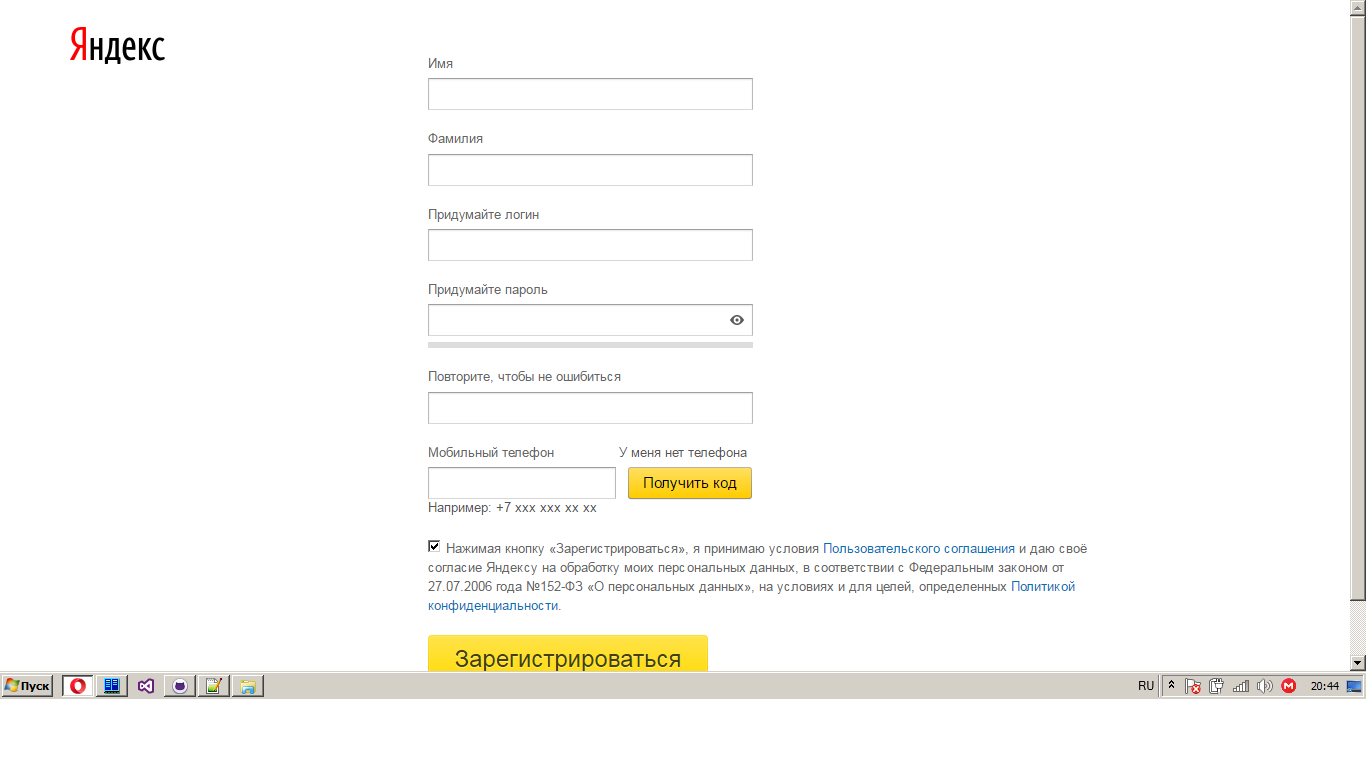
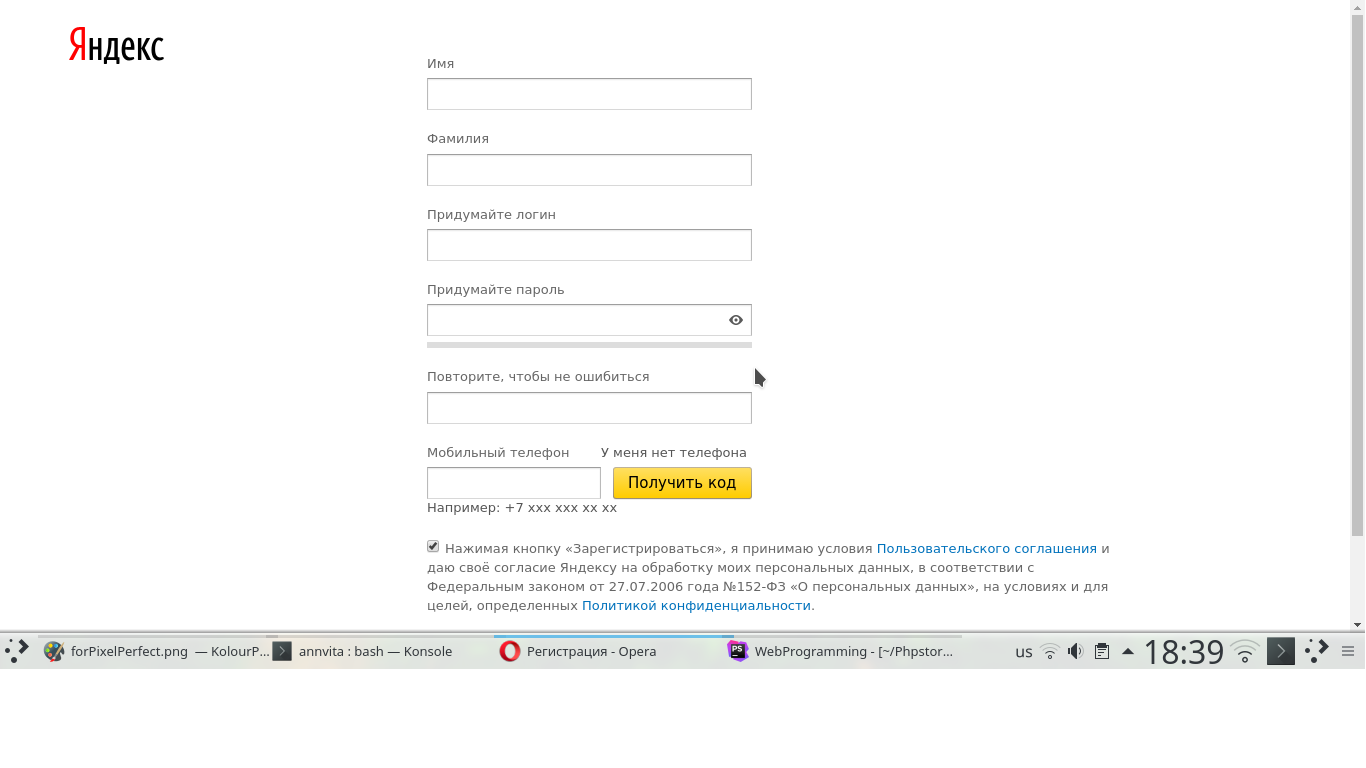
Инпуты в блоке с установленной шириной. Полоса контроля пароля

diff --git a/passport.yandex/index.html b/passport.yandex/index.html
@@ -12,57 +12,60 @@
     </div>
     <div class="container clearfix">
       <form class="form" method="post">
-        <div class="input-block">
-          <div class="input-label">
-            Имя
+        <div class="input-container">
+          <div class="input-block">
+            <div class="input-label">
+              Имя
+            </div>
+            <input type="text" class="input-text" />
           </div>
-          <input type="text" class="input-text" />
-        </div>
-        <div class="input-block">
-          <div class="input-label">
-            Фамилия
+          <div class="input-block">
+            <div class="input-label">
+              Фамилия
+            </div>
+            <input type="text" class="input-text" />
           </div>
-          <input type="text" class="input-text" />
-        </div>
-        <div class="input-block">
-          <div class="input-label">
-            Придумайте логин
+          <div class="input-block">
+            <div class="input-label">
+              Придумайте логин
+            </div>
+            <input type="text" class="input-text" />
           </div>
-          <input type="text" class="input-text" />
-        </div>
-        <div class="input-block">
-          <div class="input-label">
-            Придумайте пароль
+          <div class="input-block">
+            <div class="input-label">
+              Придумайте пароль
+            </div>
+            <input type="text" class="input-text input-password" />
+            <div class="password_control"> </div>
           </div>
-          <input type="text" class="input-text" />
-        </div>
-        <div class="input-block">
-          <div class="input-label">
-            Повторите, чтобы не ошибаться
+          <div class="input-block">
+            <div class="input-label">
+              Повторите, чтобы не ошибаться
+            </div>
+            <input type="text" class="input-text" />
           </div>
-          <input type="text" class="input-text" />
-        </div>
-        <div class="input-block">
-          <div class="input-label">
-            Мобильный телефон
+          <div class="input-block">
+            <div class="input-label">
+              Мобильный телефон
+            </div>
+            <input type="text" class="input-text" />
+            <div class="input-signature">
+              Например: +7 xxx xxx xx xx
+            </div>
           </div>
-          <input type="text" class="input-text" />
-          <div class="input-signature">
-            Например: +7 xxx xxx xx xx
+          <div class="input-block input-buttion-block">
+            <div class="input-label">
+              У меня нет телефона
+            </div>
+            <button class="input-buttion">
+              <span class="input-buttion-text">Получить код</span>
+            </button>
           </div>
-        </div>
-        <div class="input-block input-buttion-block">
-          <div class="input-label">
-            У меня нет телефона
-          </div>
-          <button class="input-buttion">
-            <span class="input-buttion-text">Получить код</span>
-          </button>
         </div>
         <input type="checkbox" name="user-assigment-accept" checked="checked" />
         <div class="user-assigment-accept-label">
           <label for="user-assigment-accept">
-            Нажимая кнопку «Зарегистрироваться», я принимаю условия 
+            Нажимая кнопку «Зарегистрироваться», я принимаю условия
             <a class="user-assigment-accept-link" href="//yandex.ru/legal/rules/" target="_blank">Пользовательского соглашения</a>
              и даю своё согласие Яндексу на обработку моих персональных данных, в соответствии с Федеральным законом от 27.07.2006 года №152-ФЗ «О персональных данных», на условиях и для целей, определенных 
             <a class="user-assigment-accept-link" target="_blank" href="//yandex.ru/legal/confidential/">Политикой конфиденциальности</a>

diff --git a/passport.yandex/css/style.css b/passport.yandex/css/style.css
@@ -39,14 +39,22 @@ body
     width: 495px;
 }
 
+.input-container
+{
+    width: 325px;
+    box-sizing: border-box;
+}
+
 .input-block
 {
     margin: 0 0 21px 0;
+    width: 100%;
 }
 
 .input-label
 {
     margin: 0 0 7px 0;
+    width: 100%;
 }
 
 .input-text
@@ -55,7 +63,17 @@ body
     padding: 5px 10px 5px 10px;
     border: 1px solid rgba(0,0,0,.27);
     box-shadow: 0 1px 0 rgba(255,255,255,.2), inset 0 1px 1px rgba(0,0,0,.1);
-    width: 325px;
     height: 32px;
+    width: 100%;
 }
 
+.input-password
+{
+    margin-bottom: 6px;
+}
+
+.password_control
+{
+    height: 6px;
+    background: #DDD;
+}
